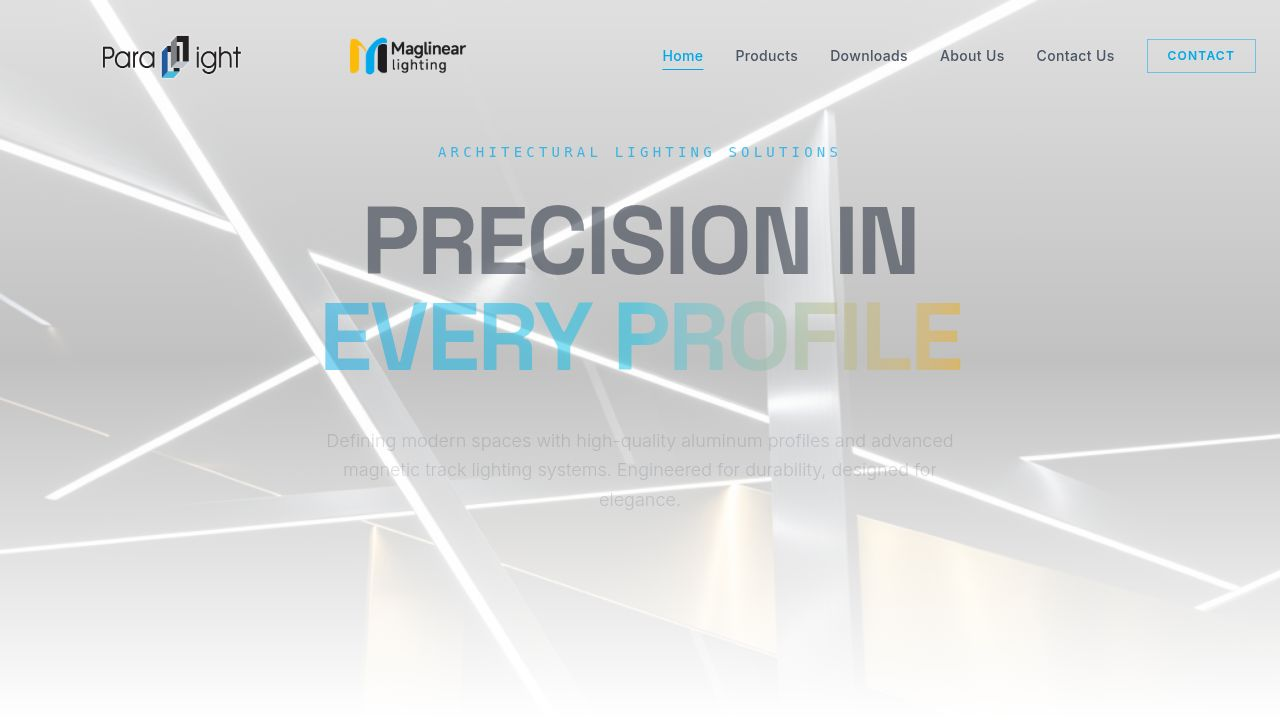
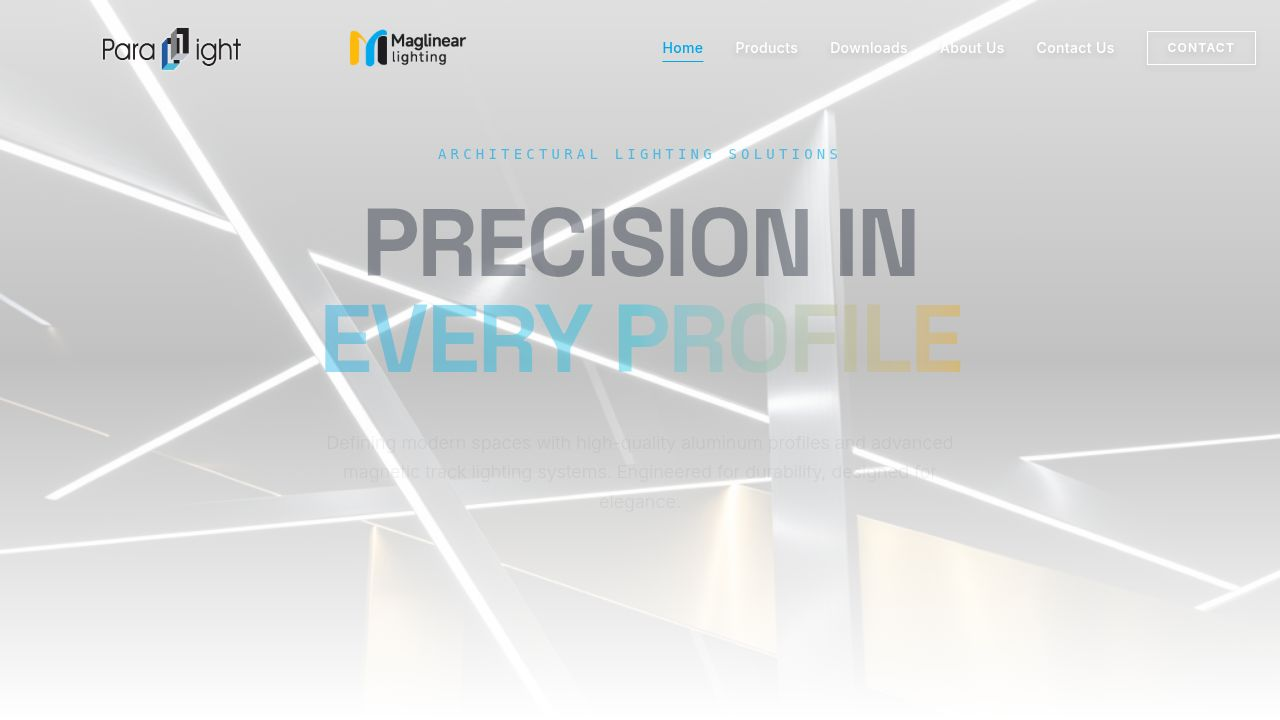
Improve navigation bar animation for smoother color transitions
Refactor Navbar component to use an absolute positioned overlay with opacity transitions for animating the background gradient, improving the visual experience and addressing the issue of sudden color changes.

Replit-Commit-Author: Agent
Replit-Commit-Session-Id: 80277da4-a443-43ea-8a3b-401c11f614a2
Replit-Commit-Checkpoint-Type: full_checkpoint
Replit-Commit-Event-Id: 6a071d65-559f-4fec-87dc-d64133b4dea5
Replit-Commit-Screenshot-Url: https://storage.googleapis.com/screenshot-production-us-central1/d7454a2c-912c-46eb-af8e-019f96d76874/80277da4-a443-43ea-8a3b-401c11f614a2/YJO7jSw
Replit-Helium-Checkpoint-Created: true

diff --git a/client/src/components/layout/Navbar.tsx b/client/src/components/layout/Navbar.tsx
@@ -35,16 +35,18 @@ export default function Navbar() {
           : "",
       )}
     >
-      <div className={cn(
-        "flex items-center justify-between px-6 transition-all duration-700 ease-in-out",
-        scrolled 
-          ? "bg-gradient-to-r from-white via-gray-300 via-20% to-gray-900 to-40% py-2" 
-          : "bg-transparent py-4"
-      )}>
+      <div className="relative flex items-center justify-between px-6 transition-all duration-700 ease-in-out py-4">
+        {/* Animated gradient background */}
+        <div 
+          className={cn(
+            "absolute inset-0 bg-gradient-to-r from-white via-gray-300 via-20% to-gray-900 to-40% transition-opacity duration-700 ease-in-out",
+            scrolled ? "opacity-100" : "opacity-0"
+          )}
+        />
         {/* Logo */}
         <Link
           href="/"
-          className="flex items-center -space-x-8 hover:opacity-80 transition-opacity"
+          className="relative z-10 flex items-center -space-x-8 hover:opacity-80 transition-opacity"
         >
           <div className="h-16 overflow-hidden flex items-center">
             <img src={paralightLogo} alt="Paralight" className="h-40 max-w-[360px] object-cover object-center" />
@@ -55,7 +57,7 @@ export default function Navbar() {
         </Link>
         
         {/* Nav Links */}
-        <div className="flex items-center">
+        <div className="relative z-10 flex items-center">
 
         {/* Desktop Nav */}
         <div className="hidden md:flex items-center space-x-8">
